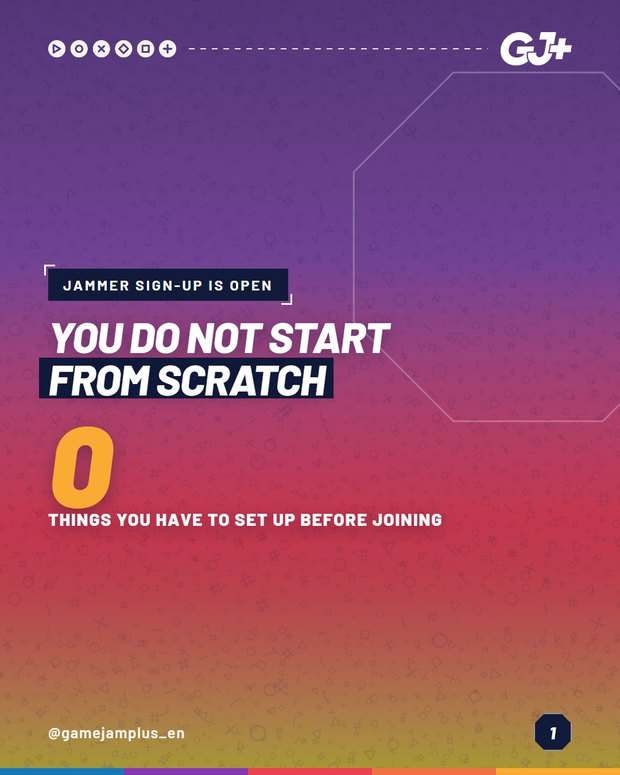
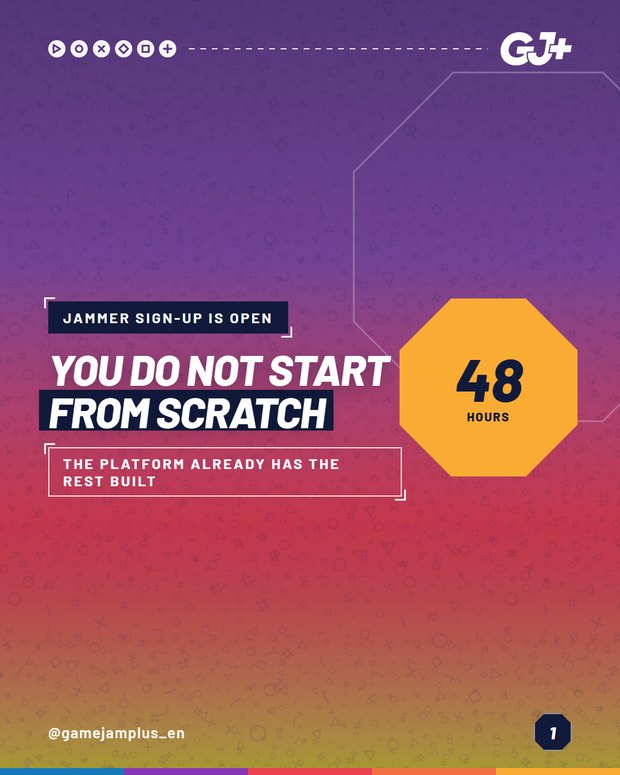
O25: o 0 sai da capa e volta o selo de octogono
O numeral 0 nao dizia nada. A capa volta ao dispositivo de assinatura do post,
o octogono a direita, agora com 48 horas, que e a jam em si e esta na home do
site. Entra tambem a etiqueta fantasma que a capa tinha antes.

Changed region(s): [[0.0613, 0.3406, 0.95, 0.6813]]

diff --git a/index.html b/index.html
@@ -293,7 +293,7 @@ dialog img{width:min(92vw,620px);max-height:92dvh;object-fit:contain;border-radi
 <article class="c" data-cat="01-conteudos-gj" data-lang="PT" data-busca="o25 - voce nao comeca do zero gj+" id="c230">
   <header><div><span class="tagcat">GJ+</span><span class="taglang PT">PT</span><h2>O25 - Voce nao comeca do zero</h2></div>
   <div class="nav"><button aria-label="Anterior" data-d="-1">&#8592;</button><button aria-label="Pr&#243;ximo" data-d="1">&#8594;</button><span class="cont">7</span></div></header>
-  <div class="strip"><figure><img src="img/01-conteudos-gj-pt-o25-o-que-a-sua-sede-recebe-pronta/slide_01.jpg?v=5" alt="O25 - Voce nao comeca do zero 1" width="620" height="775" loading="lazy" decoding="async"><figcaption>01</figcaption></figure><figure><img src="img/01-conteudos-gj-pt-o25-o-que-a-sua-sede-recebe-pronta/slide_02.jpg?v=5" alt="O25 - Voce nao comeca do zero 2" width="620" height="775" loading="lazy" decoding="async"><figcaption>02</figcaption></figure><figure><img src="img/01-conteudos-gj-pt-o25-o-que-a-sua-sede-recebe-pronta/slide_03.jpg?v=5" alt="O25 - Voce nao comeca do zero 3" width="620" height="775" loading="lazy" decoding="async"><figcaption>03</figcaption></figure><figure><img src="img/01-conteudos-gj-pt-o25-o-que-a-sua-sede-recebe-pronta/slide_04.jpg?v=5" alt="O25 - Voce nao comeca do zero 4" width="620" height="775" loading="lazy" decoding="async"><figcaption>04</figcaption></figure><figure><img src="img/01-conteudos-gj-pt-o25-o-que-a-sua-sede-recebe-pronta/slide_05.jpg?v=5" alt="O25 - Voce nao comeca do zero 5" width="620" height="775" loading="lazy" decoding="async"><figcaption>05</figcaption></figure><figure><img src="img/01-conteudos-gj-pt-o25-o-que-a-sua-sede-recebe-pronta/slide_06.jpg?v=5" alt="O25 - Voce nao comeca do zero 6" width="620" height="775" loading="lazy" decoding="async"><figcaption>06</figcaption></figure><figure><img src="img/01-conteudos-gj-pt-o25-o-que-a-sua-sede-recebe-pronta/slide_07.jpg?v=5" alt="O25 - Voce nao comeca do zero 7" width="620" height="775" loading="lazy" decoding="async"><figcaption>07</figcaption></figure></div></article>
+  <div class="strip"><figure><img src="img/01-conteudos-gj-pt-o25-o-que-a-sua-sede-recebe-pronta/slide_01.jpg?v=6" alt="O25 - Voce nao comeca do zero 1" width="620" height="775" loading="lazy" decoding="async"><figcaption>01</figcaption></figure><figure><img src="img/01-conteudos-gj-pt-o25-o-que-a-sua-sede-recebe-pronta/slide_02.jpg?v=6" alt="O25 - Voce nao comeca do zero 2" width="620" height="775" loading="lazy" decoding="async"><figcaption>02</figcaption></figure><figure><img src="img/01-conteudos-gj-pt-o25-o-que-a-sua-sede-recebe-pronta/slide_03.jpg?v=6" alt="O25 - Voce nao comeca do zero 3" width="620" height="775" loading="lazy" decoding="async"><figcaption>03</figcaption></figure><figure><img src="img/01-conteudos-gj-pt-o25-o-que-a-sua-sede-recebe-pronta/slide_04.jpg?v=6" alt="O25 - Voce nao comeca do zero 4" width="620" height="775" loading="lazy" decoding="async"><figcaption>04</figcaption></figure><figure><img src="img/01-conteudos-gj-pt-o25-o-que-a-sua-sede-recebe-pronta/slide_05.jpg?v=6" alt="O25 - Voce nao comeca do zero 5" width="620" height="775" loading="lazy" decoding="async"><figcaption>05</figcaption></figure><figure><img src="img/01-conteudos-gj-pt-o25-o-que-a-sua-sede-recebe-pronta/slide_06.jpg?v=6" alt="O25 - Voce nao comeca do zero 6" width="620" height="775" loading="lazy" decoding="async"><figcaption>06</figcaption></figure><figure><img src="img/01-conteudos-gj-pt-o25-o-que-a-sua-sede-recebe-pronta/slide_07.jpg?v=6" alt="O25 - Voce nao comeca do zero 7" width="620" height="775" loading="lazy" decoding="async"><figcaption>07</figcaption></figure></div></article>
 <article class="c" data-cat="01-conteudos-gj" data-lang="PT" data-busca="c04 - de 80 pessoas numa sala a 50 países gj+" id="c231">
   <header><div><span class="tagcat">GJ+</span><span class="taglang PT">PT</span><h2>C04 - De 80 pessoas numa sala a 50 países</h2></div>
   <div class="nav"><button aria-label="Anterior" data-d="-1">&#8592;</button><button aria-label="Pr&#243;ximo" data-d="1">&#8594;</button><span class="cont">7</span></div></header>
@@ -493,7 +493,7 @@ dialog img{width:min(92vw,620px);max-height:92dvh;object-fit:contain;border-radi
 <article class="c" data-cat="01-conteudos-gj" data-lang="EN" data-busca="o25 - you do not start from scratch gj+" id="c235">
   <header><div><span class="tagcat">GJ+</span><span class="taglang EN">EN</span><h2>O25 - You do not start from scratch</h2></div>
   <div class="nav"><button aria-label="Anterior" data-d="-1">&#8592;</button><button aria-label="Pr&#243;ximo" data-d="1">&#8594;</button><span class="cont">7</span></div></header>
-  <div class="strip"><figure><img src="img/01-conteudos-gj-en-o25-what-your-venue-gets-ready-made/slide_01.jpg?v=5" alt="O25 - You do not start from scratch 1" width="620" height="775" loading="lazy" decoding="async"><figcaption>01</figcaption></figure><figure><img src="img/01-conteudos-gj-en-o25-what-your-venue-gets-ready-made/slide_02.jpg?v=5" alt="O25 - You do not start from scratch 2" width="620" height="775" loading="lazy" decoding="async"><figcaption>02</figcaption></figure><figure><img src="img/01-conteudos-gj-en-o25-what-your-venue-gets-ready-made/slide_03.jpg?v=5" alt="O25 - You do not start from scratch 3" width="620" height="775" loading="lazy" decoding="async"><figcaption>03</figcaption></figure><figure><img src="img/01-conteudos-gj-en-o25-what-your-venue-gets-ready-made/slide_04.jpg?v=5" alt="O25 - You do not start from scratch 4" width="620" height="775" loading="lazy" decoding="async"><figcaption>04</figcaption></figure><figure><img src="img/01-conteudos-gj-en-o25-what-your-venue-gets-ready-made/slide_05.jpg?v=5" alt="O25 - You do not start from scratch 5" width="620" height="775" loading="lazy" decoding="async"><figcaption>05</figcaption></figure><figure><img src="img/01-conteudos-gj-en-o25-what-your-venue-gets-ready-made/slide_06.jpg?v=5" alt="O25 - You do not start from scratch 6" width="620" height="775" loading="lazy" decoding="async"><figcaption>06</figcaption></figure><figure><img src="img/01-conteudos-gj-en-o25-what-your-venue-gets-ready-made/slide_07.jpg?v=5" alt="O25 - You do not start from scratch 7" width="620" height="775" loading="lazy" decoding="async"><figcaption>07</figcaption></figure></div></article>
+  <div class="strip"><figure><img src="img/01-conteudos-gj-en-o25-what-your-venue-gets-ready-made/slide_01.jpg?v=6" alt="O25 - You do not start from scratch 1" width="620" height="775" loading="lazy" decoding="async"><figcaption>01</figcaption></figure><figure><img src="img/01-conteudos-gj-en-o25-what-your-venue-gets-ready-made/slide_02.jpg?v=6" alt="O25 - You do not start from scratch 2" width="620" height="775" loading="lazy" decoding="async"><figcaption>02</figcaption></figure><figure><img src="img/01-conteudos-gj-en-o25-what-your-venue-gets-ready-made/slide_03.jpg?v=6" alt="O25 - You do not start from scratch 3" width="620" height="775" loading="lazy" decoding="async"><figcaption>03</figcaption></figure><figure><img src="img/01-conteudos-gj-en-o25-what-your-venue-gets-ready-made/slide_04.jpg?v=6" alt="O25 - You do not start from scratch 4" width="620" height="775" loading="lazy" decoding="async"><figcaption>04</figcaption></figure><figure><img src="img/01-conteudos-gj-en-o25-what-your-venue-gets-ready-made/slide_05.jpg?v=6" alt="O25 - You do not start from scratch 5" width="620" height="775" loading="lazy" decoding="async"><figcaption>05</figcaption></figure><figure><img src="img/01-conteudos-gj-en-o25-what-your-venue-gets-ready-made/slide_06.jpg?v=6" alt="O25 - You do not start from scratch 6" width="620" height="775" loading="lazy" decoding="async"><figcaption>06</figcaption></figure><figure><img src="img/01-conteudos-gj-en-o25-what-your-venue-gets-ready-made/slide_07.jpg?v=6" alt="O25 - You do not start from scratch 7" width="620" height="775" loading="lazy" decoding="async"><figcaption>07</figcaption></figure></div></article>
 <article class="c" data-cat="01-conteudos-gj" data-lang="EN" data-busca="c04 - from 80 people in a room to 50 countries gj+" id="c236">
   <header><div><span class="tagcat">GJ+</span><span class="taglang EN">EN</span><h2>C04 - From 80 people in a room to 50 countries</h2></div>
   <div class="nav"><button aria-label="Anterior" data-d="-1">&#8592;</button><button aria-label="Pr&#243;ximo" data-d="1">&#8594;</button><span class="cont">7</span></div></header>
@@ -561,7 +561,7 @@ dialog img{width:min(92vw,620px);max-height:92dvh;object-fit:contain;border-radi
 <article class="c" data-cat="01-conteudos-gj" data-lang="ES" data-busca="o25 - no empiezas de cero gj+" id="c240">
   <header><div><span class="tagcat">GJ+</span><span class="taglang ES">ES</span><h2>O25 - No empiezas de cero</h2></div>
   <div class="nav"><button aria-label="Anterior" data-d="-1">&#8592;</button><button aria-label="Pr&#243;ximo" data-d="1">&#8594;</button><span class="cont">7</span></div></header>
-  <div class="strip"><figure><img src="img/01-conteudos-gj-es-o25-lo-que-tu-sede-recibe-ya-listo/slide_01.jpg?v=5" alt="O25 - No empiezas de cero 1" width="620" height="775" loading="lazy" decoding="async"><figcaption>01</figcaption></figure><figure><img src="img/01-conteudos-gj-es-o25-lo-que-tu-sede-recibe-ya-listo/slide_02.jpg?v=5" alt="O25 - No empiezas de cero 2" width="620" height="775" loading="lazy" decoding="async"><figcaption>02</figcaption></figure><figure><img src="img/01-conteudos-gj-es-o25-lo-que-tu-sede-recibe-ya-listo/slide_03.jpg?v=5" alt="O25 - No empiezas de cero 3" width="620" height="775" loading="lazy" decoding="async"><figcaption>03</figcaption></figure><figure><img src="img/01-conteudos-gj-es-o25-lo-que-tu-sede-recibe-ya-listo/slide_04.jpg?v=5" alt="O25 - No empiezas de cero 4" width="620" height="775" loading="lazy" decoding="async"><figcaption>04</figcaption></figure><figure><img src="img/01-conteudos-gj-es-o25-lo-que-tu-sede-recibe-ya-listo/slide_05.jpg?v=5" alt="O25 - No empiezas de cero 5" width="620" height="775" loading="lazy" decoding="async"><figcaption>05</figcaption></figure><figure><img src="img/01-conteudos-gj-es-o25-lo-que-tu-sede-recibe-ya-listo/slide_06.jpg?v=5" alt="O25 - No empiezas de cero 6" width="620" height="775" loading="lazy" decoding="async"><figcaption>06</figcaption></figure><figure><img src="img/01-conteudos-gj-es-o25-lo-que-tu-sede-recibe-ya-listo/slide_07.jpg?v=5" alt="O25 - No empiezas de cero 7" width="620" height="775" loading="lazy" decoding="async"><figcaption>07</figcaption></figure></div></article>
+  <div class="strip"><figure><img src="img/01-conteudos-gj-es-o25-lo-que-tu-sede-recibe-ya-listo/slide_01.jpg?v=6" alt="O25 - No empiezas de cero 1" width="620" height="775" loading="lazy" decoding="async"><figcaption>01</figcaption></figure><figure><img src="img/01-conteudos-gj-es-o25-lo-que-tu-sede-recibe-ya-listo/slide_02.jpg?v=6" alt="O25 - No empiezas de cero 2" width="620" height="775" loading="lazy" decoding="async"><figcaption>02</figcaption></figure><figure><img src="img/01-conteudos-gj-es-o25-lo-que-tu-sede-recibe-ya-listo/slide_03.jpg?v=6" alt="O25 - No empiezas de cero 3" width="620" height="775" loading="lazy" decoding="async"><figcaption>03</figcaption></figure><figure><img src="img/01-conteudos-gj-es-o25-lo-que-tu-sede-recibe-ya-listo/slide_04.jpg?v=6" alt="O25 - No empiezas de cero 4" width="620" height="775" loading="lazy" decoding="async"><figcaption>04</figcaption></figure><figure><img src="img/01-conteudos-gj-es-o25-lo-que-tu-sede-recibe-ya-listo/slide_05.jpg?v=6" alt="O25 - No empiezas de cero 5" width="620" height="775" loading="lazy" decoding="async"><figcaption>05</figcaption></figure><figure><img src="img/01-conteudos-gj-es-o25-lo-que-tu-sede-recibe-ya-listo/slide_06.jpg?v=6" alt="O25 - No empiezas de cero 6" width="620" height="775" loading="lazy" decoding="async"><figcaption>06</figcaption></figure><figure><img src="img/01-conteudos-gj-es-o25-lo-que-tu-sede-recibe-ya-listo/slide_07.jpg?v=6" alt="O25 - No empiezas de cero 7" width="620" height="775" loading="lazy" decoding="async"><figcaption>07</figcaption></figure></div></article>
 <article class="c" data-cat="01-conteudos-gj" data-lang="ES" data-busca="c04 - de 80 personas a 50 países gj+" id="c241">
   <header><div><span class="tagcat">GJ+</span><span class="taglang ES">ES</span><h2>C04 - De 80 personas a 50 países</h2></div>
   <div class="nav"><button aria-label="Anterior" data-d="-1">&#8592;</button><button aria-label="Pr&#243;ximo" data-d="1">&#8594;</button><span class="cont">7</span></div></header>

diff --git a/p/o25-en/index.html b/p/o25-en/index.html
@@ -10,7 +10,7 @@
 <meta property="og:site_name" content="GameJamPlus · carrosséis">
 <meta property="og:title" content="O25 - You do not start from scratch">
 <meta property="og:description" content="Jammer sign-up is open and most of it is already built. The account on the official platform has no password, you get an access link by email, and that...">
-<meta property="og:image" content="https://gamejamplus-carrosseis.vercel.app/img/01-conteudos-gj-en-o25-what-your-venue-gets-ready-made/slide_01.jpg?v=5">
+<meta property="og:image" content="https://gamejamplus-carrosseis.vercel.app/img/01-conteudos-gj-en-o25-what-your-venue-gets-ready-made/slide_01.jpg?v=6">
 <meta property="og:url" content="https://gamejamplus-carrosseis.vercel.app/p/o25-en/">
 <meta name="twitter:card" content="summary_large_image">
 <link rel="preconnect" href="https://fonts.googleapis.com">
@@ -68,7 +68,7 @@ h1{font-size:23px;font-weight:800;letter-spacing:-.5px;margin:8px 0 4px;line-hei
   <p class="sub">7 slides</p>
 
   <div class="palco">
-    <img id="sl" src="../../img/01-conteudos-gj-en-o25-what-your-venue-gets-ready-made/slide_01.jpg?v=5" alt="O25 - You do not start from scratch 1">
+    <img id="sl" src="../../img/01-conteudos-gj-en-o25-what-your-venue-gets-ready-made/slide_01.jpg?v=6" alt="O25 - You do not start from scratch 1">
     <button class="seta e" type="button" aria-label="Anterior">←</button>
     <button class="seta d" type="button" aria-label="Próximo">→</button>
     <span class="cont"><b id="n">1</b>/7</span>
@@ -88,7 +88,7 @@ h1{font-size:23px;font-weight:800;letter-spacing:-.5px;margin:8px 0 4px;line-hei
   <p class="rod">Uso interno, para revisão.</p>
 </div>
 <script>
-const S=["../../img/01-conteudos-gj-en-o25-what-your-venue-gets-ready-made/slide_01.jpg?v=5","../../img/01-conteudos-gj-en-o25-what-your-venue-gets-ready-made/slide_02.jpg?v=5","../../img/01-conteudos-gj-en-o25-what-your-venue-gets-ready-made/slide_03.jpg?v=5","../../img/01-conteudos-gj-en-o25-what-your-venue-gets-ready-made/slide_04.jpg?v=5","../../img/01-conteudos-gj-en-o25-what-your-venue-gets-ready-made/slide_05.jpg?v=5","../../img/01-conteudos-gj-en-o25-what-your-venue-gets-ready-made/slide_06.jpg?v=5","../../img/01-conteudos-gj-en-o25-what-your-venue-gets-ready-made/slide_07.jpg?v=5"];
+const S=["../../img/01-conteudos-gj-en-o25-what-your-venue-gets-ready-made/slide_01.jpg?v=6","../../img/01-conteudos-gj-en-o25-what-your-venue-gets-ready-made/slide_02.jpg?v=6","../../img/01-conteudos-gj-en-o25-what-your-venue-gets-ready-made/slide_03.jpg?v=6","../../img/01-conteudos-gj-en-o25-what-your-venue-gets-ready-made/slide_04.jpg?v=6","../../img/01-conteudos-gj-en-o25-what-your-venue-gets-ready-made/slide_05.jpg?v=6","../../img/01-conteudos-gj-en-o25-what-your-venue-gets-ready-made/slide_06.jpg?v=6","../../img/01-conteudos-gj-en-o25-what-your-venue-gets-ready-made/slide_07.jpg?v=6"];
 const LEGTXT="Jammer sign-up is open and most of it is already built. The account on the official platform has no password, you get an access link by email, and that is where you pick your venue between on site, hybrid and online. If your city has no venue yet, the online one takes you through Discord. There is a handbook explaining what to hand in and how each stage works, teams are 3 to 6 people, and most of them meet at the venue on the day.\n\nOrganizers use the same platform for venue sign-up and submission, with a toolbox, a translated marketing kit and direct support. Drop the city you are joining from.\n\nJammer sign-up is already open in the link in bio. You register on the platform and pick your venue right there.\n\n#GameJamPlus #GameJam #GameDev #IndieDev #IndieGames #GameDevCommunity";
 let i=0;
 const img=document.getElementById('sl'),nn=document.getElementById('n'),dots=document.getElementById('dots');

diff --git a/p/o25-es/index.html b/p/o25-es/index.html
@@ -10,7 +10,7 @@
 <meta property="og:site_name" content="GameJamPlus · carrosséis">
 <meta property="og:title" content="O25 - No empiezas de cero">
 <meta property="og:description" content="La inscripción de jammer abrió y casi todo ya está armado. La cuenta en la plataforma oficial es sin contraseña, recibes un link de acceso por correo, y...">
-<meta property="og:image" content="https://gamejamplus-carrosseis.vercel.app/img/01-conteudos-gj-es-o25-lo-que-tu-sede-recibe-ya-listo/slide_01.jpg?v=5">
+<meta property="og:image" content="https://gamejamplus-carrosseis.vercel.app/img/01-conteudos-gj-es-o25-lo-que-tu-sede-recibe-ya-listo/slide_01.jpg?v=6">
 <meta property="og:url" content="https://gamejamplus-carrosseis.vercel.app/p/o25-es/">
 <meta name="twitter:card" content="summary_large_image">
 <link rel="preconnect" href="https://fonts.googleapis.com">
@@ -68,7 +68,7 @@ h1{font-size:23px;font-weight:800;letter-spacing:-.5px;margin:8px 0 4px;line-hei
   <p class="sub">7 slides</p>
 
   <div class="palco">
-    <img id="sl" src="../../img/01-conteudos-gj-es-o25-lo-que-tu-sede-recibe-ya-listo/slide_01.jpg?v=5" alt="O25 - No empiezas de cero 1">
+    <img id="sl" src="../../img/01-conteudos-gj-es-o25-lo-que-tu-sede-recibe-ya-listo/slide_01.jpg?v=6" alt="O25 - No empiezas de cero 1">
     <button class="seta e" type="button" aria-label="Anterior">←</button>
     <button class="seta d" type="button" aria-label="Próximo">→</button>
     <span class="cont"><b id="n">1</b>/7</span>
@@ -88,7 +88,7 @@ h1{font-size:23px;font-weight:800;letter-spacing:-.5px;margin:8px 0 4px;line-hei
   <p class="rod">Uso interno, para revisão.</p>
 </div>
 <script>
-const S=["../../img/01-conteudos-gj-es-o25-lo-que-tu-sede-recibe-ya-listo/slide_01.jpg?v=5","../../img/01-conteudos-gj-es-o25-lo-que-tu-sede-recibe-ya-listo/slide_02.jpg?v=5","../../img/01-conteudos-gj-es-o25-lo-que-tu-sede-recibe-ya-listo/slide_03.jpg?v=5","../../img/01-conteudos-gj-es-o25-lo-que-tu-sede-recibe-ya-listo/slide_04.jpg?v=5","../../img/01-conteudos-gj-es-o25-lo-que-tu-sede-recibe-ya-listo/slide_05.jpg?v=5","../../img/01-conteudos-gj-es-o25-lo-que-tu-sede-recibe-ya-listo/slide_06.jpg?v=5","../../img/01-conteudos-gj-es-o25-lo-que-tu-sede-recibe-ya-listo/slide_07.jpg?v=5"];
+const S=["../../img/01-conteudos-gj-es-o25-lo-que-tu-sede-recibe-ya-listo/slide_01.jpg?v=6","../../img/01-conteudos-gj-es-o25-lo-que-tu-sede-recibe-ya-listo/slide_02.jpg?v=6","../../img/01-conteudos-gj-es-o25-lo-que-tu-sede-recibe-ya-listo/slide_03.jpg?v=6","../../img/01-conteudos-gj-es-o25-lo-que-tu-sede-recibe-ya-listo/slide_04.jpg?v=6","../../img/01-conteudos-gj-es-o25-lo-que-tu-sede-recibe-ya-listo/slide_05.jpg?v=6","../../img/01-conteudos-gj-es-o25-lo-que-tu-sede-recibe-ya-listo/slide_06.jpg?v=6","../../img/01-conteudos-gj-es-o25-lo-que-tu-sede-recibe-ya-listo/slide_07.jpg?v=6"];
 const LEGTXT="La inscripción de jammer abrió y casi todo ya está armado. La cuenta en la plataforma oficial es sin contraseña, recibes un link de acceso por correo, y ahí mismo eliges tu sede entre presencial, híbrida y online. Si tu ciudad todavía no tiene sede, la online te recibe por Discord. Hay manual que explica qué entregar y cómo funciona cada etapa, el equipo es de 3 a 6 personas y la mayoría se conoce en la sede el mismo día.\n\nQuien organiza usa la misma plataforma para la inscripción y la entrega de la sede, con toolbox, kit de marketing traducido y soporte directo. Cuenta desde qué ciudad vas a entrar.\n\nLa inscripción de jammer ya está abierta en el link de la bio. Te registras en la plataforma y eliges tu sede ahí mismo.\n\n#GameJamPlus #GameJam #GameDev #IndieDev #IndieGames #GameDevCommunity";
 let i=0;
 const img=document.getElementById('sl'),nn=document.getElementById('n'),dots=document.getElementById('dots');

diff --git a/p/o25-pt/index.html b/p/o25-pt/index.html
@@ -10,7 +10,7 @@
 <meta property="og:site_name" content="GameJamPlus · carrosséis">
 <meta property="og:title" content="O25 - Voce nao comeca do zero">
 <meta property="og:description" content="A inscrição de jammer abriu e quase tudo já está montado. A conta na plataforma oficial é sem senha, você recebe um link de acesso por e-mail, e é ali q...">
-<meta property="og:image" content="https://gamejamplus-carrosseis.vercel.app/img/01-conteudos-gj-pt-o25-o-que-a-sua-sede-recebe-pronta/slide_01.jpg?v=5">
+<meta property="og:image" content="https://gamejamplus-carrosseis.vercel.app/img/01-conteudos-gj-pt-o25-o-que-a-sua-sede-recebe-pronta/slide_01.jpg?v=6">
 <meta property="og:url" content="https://gamejamplus-carrosseis.vercel.app/p/o25-pt/">
 <meta name="twitter:card" content="summary_large_image">
 <link rel="preconnect" href="https://fonts.googleapis.com">
@@ -68,7 +68,7 @@ h1{font-size:23px;font-weight:800;letter-spacing:-.5px;margin:8px 0 4px;line-hei
   <p class="sub">7 slides</p>
 
   <div class="palco">
-    <img id="sl" src="../../img/01-conteudos-gj-pt-o25-o-que-a-sua-sede-recebe-pronta/slide_01.jpg?v=5" alt="O25 - Voce nao comeca do zero 1">
+    <img id="sl" src="../../img/01-conteudos-gj-pt-o25-o-que-a-sua-sede-recebe-pronta/slide_01.jpg?v=6" alt="O25 - Voce nao comeca do zero 1">
     <button class="seta e" type="button" aria-label="Anterior">←</button>
     <button class="seta d" type="button" aria-label="Próximo">→</button>
     <span class="cont"><b id="n">1</b>/7</span>
@@ -88,7 +88,7 @@ h1{font-size:23px;font-weight:800;letter-spacing:-.5px;margin:8px 0 4px;line-hei
   <p class="rod">Uso interno, para revisão.</p>
 </div>
 <script>
-const S=["../../img/01-conteudos-gj-pt-o25-o-que-a-sua-sede-recebe-pronta/slide_01.jpg?v=5","../../img/01-conteudos-gj-pt-o25-o-que-a-sua-sede-recebe-pronta/slide_02.jpg?v=5","../../img/01-conteudos-gj-pt-o25-o-que-a-sua-sede-recebe-pronta/slide_03.jpg?v=5","../../img/01-conteudos-gj-pt-o25-o-que-a-sua-sede-recebe-pronta/slide_04.jpg?v=5","../../img/01-conteudos-gj-pt-o25-o-que-a-sua-sede-recebe-pronta/slide_05.jpg?v=5","../../img/01-conteudos-gj-pt-o25-o-que-a-sua-sede-recebe-pronta/slide_06.jpg?v=5","../../img/01-conteudos-gj-pt-o25-o-que-a-sua-sede-recebe-pronta/slide_07.jpg?v=5"];
+const S=["../../img/01-conteudos-gj-pt-o25-o-que-a-sua-sede-recebe-pronta/slide_01.jpg?v=6","../../img/01-conteudos-gj-pt-o25-o-que-a-sua-sede-recebe-pronta/slide_02.jpg?v=6","../../img/01-conteudos-gj-pt-o25-o-que-a-sua-sede-recebe-pronta/slide_03.jpg?v=6","../../img/01-conteudos-gj-pt-o25-o-que-a-sua-sede-recebe-pronta/slide_04.jpg?v=6","../../img/01-conteudos-gj-pt-o25-o-que-a-sua-sede-recebe-pronta/slide_05.jpg?v=6","../../img/01-conteudos-gj-pt-o25-o-que-a-sua-sede-recebe-pronta/slide_06.jpg?v=6","../../img/01-conteudos-gj-pt-o25-o-que-a-sua-sede-recebe-pronta/slide_07.jpg?v=6"];
 const LEGTXT="A inscrição de jammer abriu e quase tudo já está montado. A conta na plataforma oficial é sem senha, você recebe um link de acesso por e-mail, e é ali que escolhe a sua sede entre presencial, híbrida e online. Se a sua cidade ainda não tem sede, a online recebe você pelo Discord. Tem manual explicando o que entregar e como funciona cada etapa, o time é de 3 a 6 pessoas e a maioria se encontra na sede no dia.\n\nQuem organiza usa a mesma plataforma pra inscrição e submissão da sede, com toolbox, kit de marketing traduzido e suporte direto. Comenta de qual cidade você vai entrar.\n\nAs inscrições de jammer já estão abertas no link da bio. Você faz o cadastro na plataforma e escolhe a sua sede na hora.\n\n#GameJamPlus #GameJam #GameDev #IndieDev #IndieGames #GameDevCommunity";
 let i=0;
 const img=document.getElementById('sl'),nn=document.getElementById('n'),dots=document.getElementById('dots');
